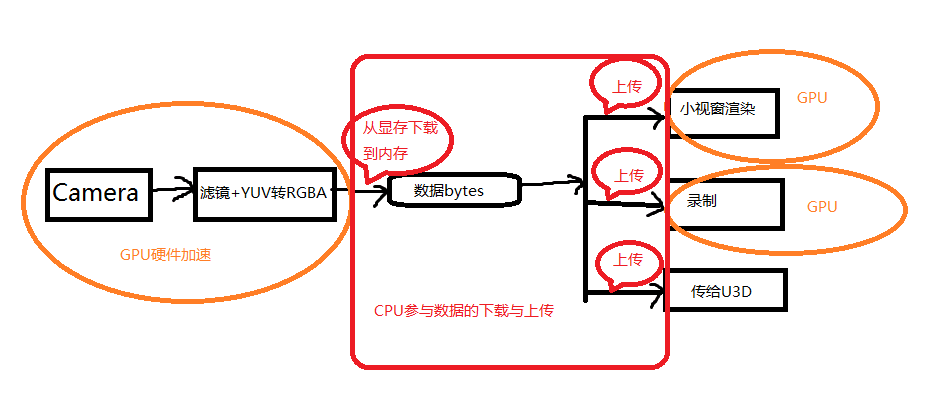
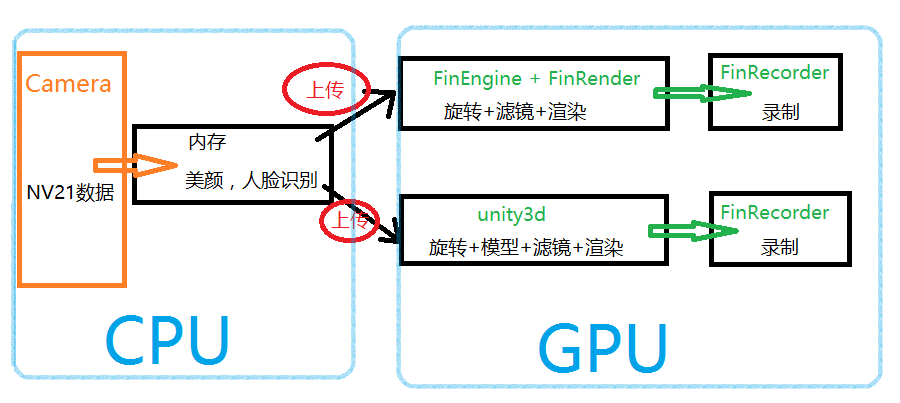
update readme

Changed region(s): [[0.0, 0.0596, 0.9956, 0.9826]]

diff --git a/README.md b/README.md
@@ -1,12 +1,18 @@
 #Fine Engine & Fin Render
 [![License](http://img.shields.io/:license-apache-blue.svg)](http://www.apache.org/licenses/LICENSE-2.0.html)
 
+##Work Flow
+![Work Flow](https://github.com/ifinver/FinEngine/blob/master/workflow.png)
+####耗时地方：
+1. 使用CPU在内存中进行美颜和人脸识别。
+2. 把数据从内存上传到gpu
+
 ##FinEngine
 视频处理引擎。
 
-接管了摄像头，摄像机每一帧数据生成时，引擎在GPU上直接获取摄像机纹理做处理，经过滤镜+旋转+格式转换处理之后，把每一帧RGBA格式的视频数据从GPU下载到CPU，回调给业务端。
+输入NV21(YUV420)数据，，经过滤镜+旋转+格式转换处理之后，渲染到一个逻辑视窗或物理视窗上。
 ####优势：
-1. 高效。全程硬件级别，只有下载每一帧数据的时候耗时，需要业务侧等待。
+1. 高效。硬件级别。
 2. Easy to use. 接口封装简单，只要初始化好引擎注册监听就可以了。
 3. 实时滤镜。滤镜热切换的接口已经留好，就差时间写几个好玩的滤镜了。
 
@@ -14,16 +20,23 @@
 独立的渲染组件。
 
 可以在一个完全的独立的线程中使用open gl进行高效的渲染。
+初始化时会创建一个逻辑视窗，传给FinEngine进行数据处理，然后将逻辑视窗投射到物理视窗或另一个逻辑视窗
 ####优势：
 1. 线程隔离。不会被其他线程的渲染所干扰。(比如U3D)。
-1. 录制视频。有录制视频的需求就可以把MediaCodec的Surface传给FinRender，FinRender会自动把视频绘制到上面。
-1. 格式兼容。接口已留好，但是目前可以渲染RGBA的数据，后期其他格式的都可以支持。    
+1. 高效。逻辑视窗使用了OpenGL的纹理，数据直接在显存中交互。
 
-##Work Flow
-![Work Flow](https://github.com/ifinver/FinEngine/blob/master/workflow.png)
-Only download from GPU to CPU and upload back 比较耗时。
+##FinRecorder
+独立的录制组件。
+
+类似FinRender，但是输入不是逻辑视窗，而是一个纹理id和与纹理绑定的eglContext，然后将数据输出至逻辑视窗或物理视窗。
+这里可以用Android的MediaCodec创建一个逻辑视窗，然后用此组件进行投射，即可完成录制功能。
+####优势：
+1. 线程隔离。不会被其他线程的渲染所干扰。(比如U3D)。
+1. 高效。逻辑视窗使用了OpenGL的纹理，数据直接在显存中交互。
+
+
 
 ##Next
 1. 视频裁剪问题  
-1. 使用GraphicBuffer加速顶点上传  
-1. 使用oes扩展加速每一帧图像数据的下载和上传  
+1. 使用GraphicBuffer加速顶点和纹理坐标的上传
+1. 使用oes扩展加速每一帧图像数据的上传(不重要)。当前的帧率在低端机已经可以达到20了。
